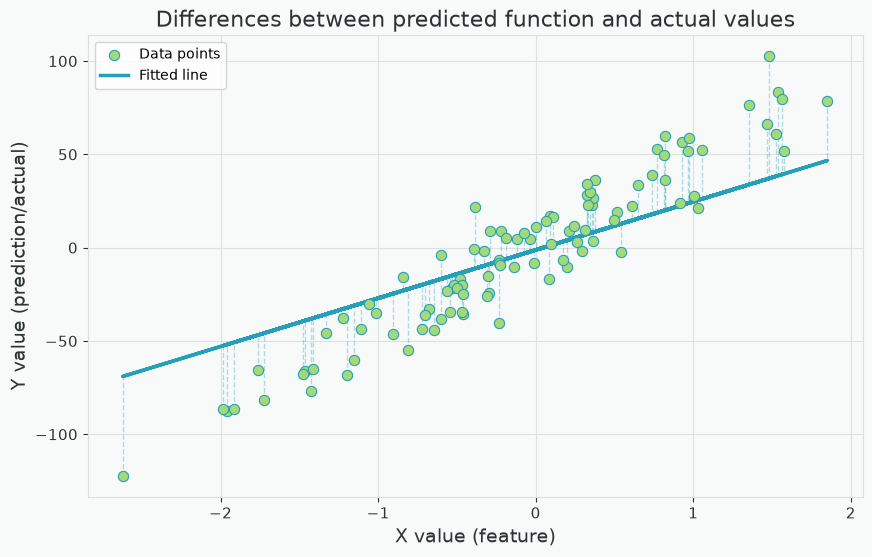
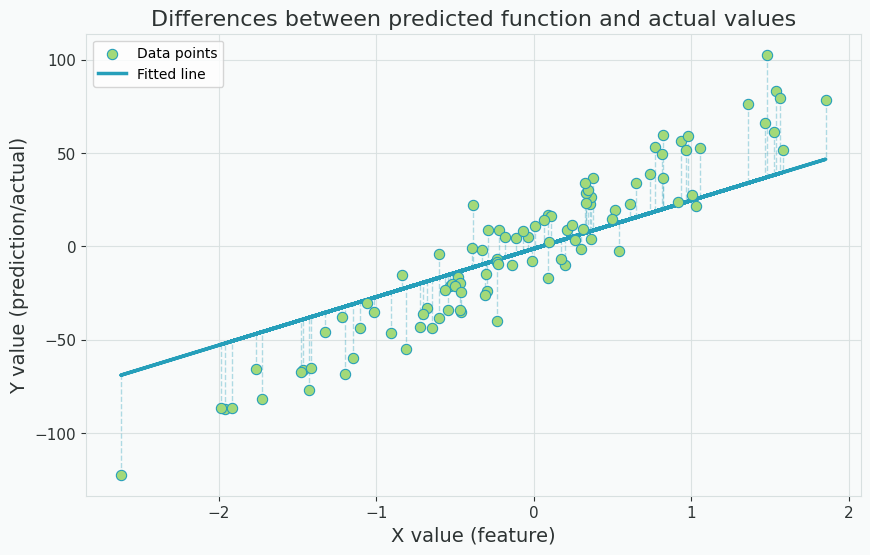
using own plot config

diff --git a/CCPlots/implementation/MSEExample.py b/CCPlots/implementation/MSEExample.py
@@ -1,27 +1,27 @@
-import matplotlib.pyplot as plt
+"""
+Line chart of Mean Squared Error over 50 SGD iterations, illustrating the
+convergence behaviour of a linear regression model trained via stochastic
+gradient descent.
+
+Figures
+-------
+- ``mse_over_iterations.png`` / ``_NL.png`` — MSE convergence line
+
+Configuration
+-------------
+``CCPlots/plot_configs/mse.json``
+"""
+from sklearn.datasets import make_regression
 from sklearn.linear_model import SGDRegressor
 from sklearn.metrics import mean_squared_error
-from sklearn.datasets import make_regression
 
 from CCPlots.PlotExample import PlotExample
-from CCPlots.config import BITROOT_PALETTE, apply_bitroot_style, output_path
+from CCPlots.config import BITROOT_PALETTE
 
 
-TEXT_BY_LOCALE = {
-    "en": {
-        "title": "MSE over Iterations",
-        "xlabel": "Iteration",
-        "ylabel": "Mean Squared Error",
-    },
-    "nl": {
-        "title": "MSE over iteraties",
-        "xlabel": "Iteratie",
-        "ylabel": "Gemiddelde kwadratische fout",
-    },
-}
+class MSE(PlotExample):
+    CONFIG_KEY = "mse"
 
-
-class MSEExample(PlotExample):
     primary = BITROOT_PALETTE['primary']
     light_gray = BITROOT_PALETTE['grid']
 
@@ -39,7 +39,19 @@ class MSEExample(PlotExample):
 
     def main(self):
         self.train_and_calculate_mse()
-        self.plot_mse()
+
+        for _locale, labels, suffix in self.iter_locales():
+            fig, ax = self.create_figure()
+
+            ax.plot(range(1, self.iterations + 1), self.mse_values, color=self.primary, marker='o')
+            ax.set_title(labels['title'], fontsize=16, color=BITROOT_PALETTE['text'])
+            ax.set_xlabel(labels['xlabel'], fontsize=14, color=BITROOT_PALETTE['text'])
+            ax.set_ylabel(labels['ylabel'], fontsize=14, color=BITROOT_PALETTE['text'])
+
+            self.apply_style(ax)
+            ax.grid(True, color=self.light_gray)
+
+            self.save_figure(fig, "default", suffix=suffix)
 
     def train_and_calculate_mse(self):
         for _ in range(self.iterations):
@@ -47,21 +59,3 @@ class MSEExample(PlotExample):
             y_pred = self.model.predict(self.X)
             mse = mean_squared_error(self.y, y_pred)
             self.mse_values.append(mse)
-
-    def plot_mse(self):
-        for locale, labels in (("en", TEXT_BY_LOCALE["en"]), ("nl", TEXT_BY_LOCALE["nl"])):
-            fname = f"mse_over_iterations{'_NL' if locale == 'nl' else ''}.png"
-
-            fig, ax = plt.subplots(figsize=(10, 6), facecolor=BITROOT_PALETTE['background'])
-            ax.set_facecolor(BITROOT_PALETTE['background'])
-
-            ax.plot(range(1, self.iterations + 1), self.mse_values, color=self.primary, marker='o')
-            ax.set_title(labels['title'], fontsize=16, color=BITROOT_PALETTE['text'])
-            ax.set_xlabel(labels['xlabel'], fontsize=14, color=BITROOT_PALETTE['text'])
-            ax.set_ylabel(labels['ylabel'], fontsize=14, color=BITROOT_PALETTE['text'])
-
-            apply_bitroot_style(ax)
-            ax.grid(True, color=self.light_gray)
-
-            fig.savefig(output_path(fname), bbox_inches='tight', pad_inches=0.1)
-            plt.close(fig)

diff --git a/CCPlots/implementation/MSEZoomExample.py b/CCPlots/implementation/MSEZoomExample.py
@@ -1,30 +1,26 @@
-import matplotlib.pyplot as plt
-from sklearn.linear_model import SGDRegressor
+"""
+Scatter plot with a single-iteration linear fit and vertical dashed
+residuals, highlighting the difference between predicted and actual values
+(used alongside the main MSE example for a zoomed-in view).
+
+Figures
+-------
+- ``mse_zoom_iteration.png`` / ``_NL.png`` — residuals scatter
+
+Configuration
+-------------
+``CCPlots/plot_configs/mse_zoom.json``
+"""
 from sklearn.datasets import make_regression
+from sklearn.linear_model import SGDRegressor
 
 from CCPlots.PlotExample import PlotExample
-from CCPlots.config import BITROOT_PALETTE, apply_bitroot_style, output_path
+from CCPlots.config import BITROOT_PALETTE
 
 
-TEXT_BY_LOCALE = {
-    "en": {
-        "title": "Differences between predicted function and actual values",
-        "xlabel": "X value (feature)",
-        "ylabel": "Y value (prediction/actual)",
-        "data_label": "Data points",
-        "line_label": "Fitted line",
-    },
-    "nl": {
-        "title": "Verschillen tussen voorspelde functie en werkelijke waarden",
-        "xlabel": "X-waarde (kenmerk)",
-        "ylabel": "Y-waarde (voorspelling/werkelijk)",
-        "data_label": "Datapunten",
-        "line_label": "Aangepaste lijn",
-    },
-}
+class MSEZoom(PlotExample):
 
-
-class MSEZoomExample(PlotExample):
+    CONFIG_KEY = "mse_zoom"
 
     primary = BITROOT_PALETTE['primary']
     secondary = BITROOT_PALETTE['secondary']
@@ -52,19 +48,11 @@ class MSEZoomExample(PlotExample):
         )
 
     def main(self):
-        self.train_one_iteration()
-        self.plot_mse_zoom()
-
-    def train_one_iteration(self):
         self.model.partial_fit(self.X, self.y)
         self.y_pred = self.model.predict(self.X)
 
-    def plot_mse_zoom(self):
-        for locale, labels in (("en", TEXT_BY_LOCALE["en"]), ("nl", TEXT_BY_LOCALE["nl"])):
-            fname = f"mse_zoom_iteration{'_NL' if locale == 'nl' else ''}.png"
-
-            fig, ax = plt.subplots(figsize=(10, 6), facecolor=BITROOT_PALETTE['background'])
-            ax.set_facecolor(BITROOT_PALETTE['background'])
+        for _locale, labels, suffix in self.iter_locales():
+            fig, ax = self.create_figure()
 
             ax.scatter(self.X, self.y, color=self.tertiary, label=labels['data_label'],
                        edgecolor=self.primary, linewidth=0.8, s=55, zorder=3)
@@ -79,9 +67,8 @@ class MSEZoomExample(PlotExample):
             ax.set_xlabel(labels['xlabel'], fontsize=14, color=BITROOT_PALETTE['text'])
             ax.set_ylabel(labels['ylabel'], fontsize=14, color=BITROOT_PALETTE['text'])
 
-            apply_bitroot_style(ax)
+            self.apply_style(ax)
             ax.grid(True, color=self.light_gray)
             ax.legend()
 
-            fig.savefig(output_path(fname), bbox_inches='tight', pad_inches=0.1)
-            plt.close(fig)
+            self.save_figure(fig, "default", suffix=suffix)
